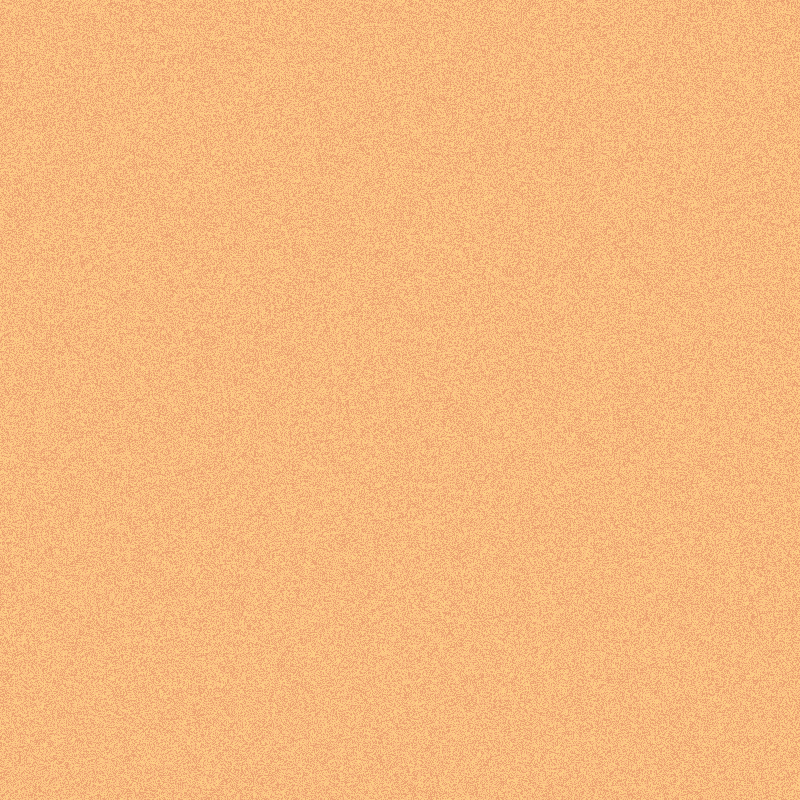
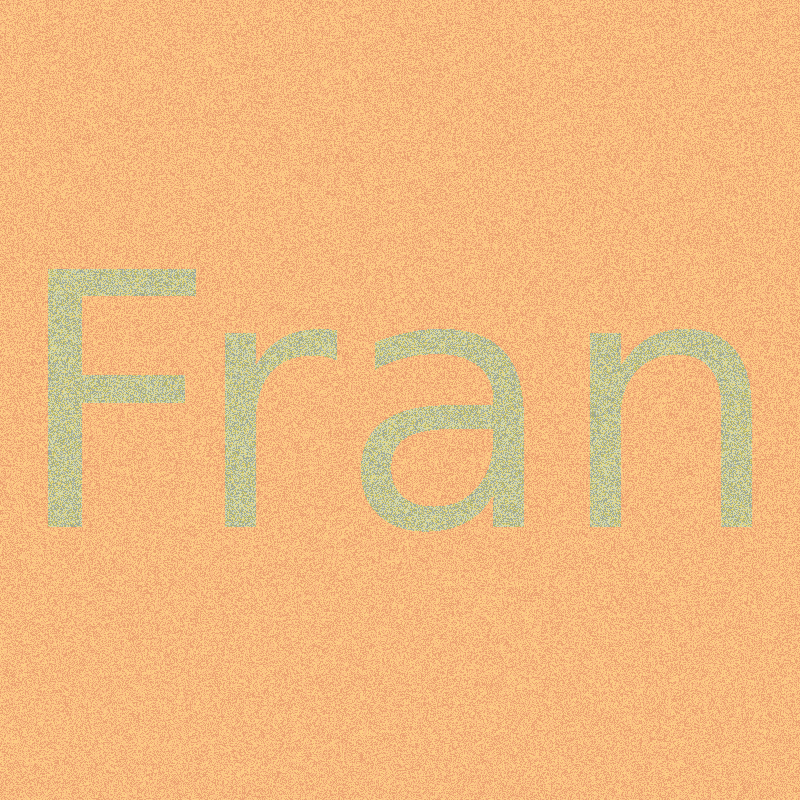
Felix ist farbendblind und PP wurde begonnen

diff --git a/Felix_Geburtstag/convert_green_red.py b/Felix_Geburtstag/convert_green_red.py
@@ -1,6 +1,7 @@
 import os
 from PIL import Image, ImageDraw
 import random
+import convert_black_white
 
 color = lambda c: ((c >> 16) & 255, (c >> 8) & 255, c & 255)
 
@@ -12,32 +13,13 @@ COLORS_OFF = [
     color(0xD7DAAA), color(0xE5D57D), color(0xD1D6AF)
 ]
 
-BACKGROUND= (255, 255, 255)
+BACKGROUND= (0, 0, 0)
 
 def overlaps_motive(image, x, y):
     if image.getpixel((x,y)) != BACKGROUND:
         return True
     else:
         return False
-
-
-img = Image.open("Felix_Geburtstag\\Fran.png")
-
-
-
-pixels = img.load() # create the pixel map
-
-for i in range(img.size[0]): # for every pixel:
-    for j in range(img.size[1]):
-        if overlaps_motive(img, i, j):
-            fill_colors = COLORS_ON
-        else:
-            fill_colors = COLORS_OFF
-        color = random.choice(fill_colors)
-        pixels[i, j] = color
-img.save("Felix_Geburtstag\\new.png")
-
-
 
 def convert(relpath, savepath, thresh = 85):
     img = Image.open(os.getcwd() + "\\" + relpath)
@@ -48,6 +30,26 @@ def convert(relpath, savepath, thresh = 85):
     r.save(os.getcwd() + "\\" + savepath + '\\converted.png')
     return savepath + "\\" + 'converted.png'
 
+
+
+def convert(relpath, savepath, thresh = 85, num = 0):
+    conv = convert_black_white.convert(relpath, "\\trash", thresh)
+
+    img = Image.open(os.getcwd() + conv)
+    img = img.convert("RGB")
+
+    pixels = img.load() # create the pixel map
+
+    for i in range(img.size[0]): # for every pixel:
+        for j in range(img.size[1]):
+            if overlaps_motive(img, i, j):
+                fill_colors = COLORS_ON
+            else:
+                fill_colors = COLORS_OFF
+            color = random.choice(fill_colors)
+            pixels[i, j] = color
+    img.save(os.getcwd() + "\\" + savepath + '\\red_green' + str(num) + '.png')
+
 if __name__ == "__main__":
-    convert("Felix_Geburtstag\\Erik_Felixia.jpg", "\\trash", 100)
+    convert("Felix_Geburtstag\\Erik_Felixia.jpg", "", 100)
     

diff --git a/AB2/block_matrix.py b/AB2/block_matrix.py
@@ -13,6 +13,7 @@ main()
     Example of code that can be run using the provided functions
 '''
 from scipy import sparse
+from scipy import linalg
 
 class BlockMatrix:
     '''class for representing matrices used to solve the poisson-problem
@@ -123,11 +124,18 @@ class BlockMatrix:
         rel_non_zero = abs_non_zero / abs_entries
         return abs_non_zero, rel_non_zero
 
-    def get_lu():
-        pass
+    def get_lu(self):
+        lu = linalg.lu(self.a_d.toarray(), permute_l=True)
+        return [sparse._csr.csr_matrix(x) for x in lu]
 
-    def eval_sparsity_lu():
-        pass
+    def eval_sparsity_lu(self):
+        lu = self.get_lu()
+        sub = sparse.diags([-1], [0], shape = ((self.n-1)**self.d, (self.n-1)**self.d))
+        result = lu[0] + lu[1] + sub
+        abs_non_zero = result.count_nonzero()
+        abs_entries = ((self.n-1)**self.d)**2
+        rel_non_zero = abs_non_zero / abs_entries
+        return abs_non_zero, rel_non_zero
 
     def graph():
         pass
@@ -135,7 +143,7 @@ class BlockMatrix:
 def main():
     '''Example of code that can be run using the provided class and methods
     '''
-    mat_1 = BlockMatrix(2, 4)
+    mat_1 = BlockMatrix(2, 3)
 
     print(mat_1.get_sparse().toarray())
     print(mat_1.eval_sparsity())
@@ -144,6 +152,11 @@ def main():
 
     print(mat_2.get_sparse().toarray())
     print(mat_2.eval_sparsity())
+
+    lu = mat_1.get_lu()
+    print(lu[0], "\n", lu[1])
+    sparsity_lu = mat_1.eval_sparsity_lu()
+    print(sparsity_lu)
 
 
 if __name__ == "__main__":

diff --git a/AB2/poisson_problem AB2.py b/AB2/poisson_problem AB2.py
@@ -1,4 +1,3 @@
-
 """programm for solving the Poisson problem
 
 functions
